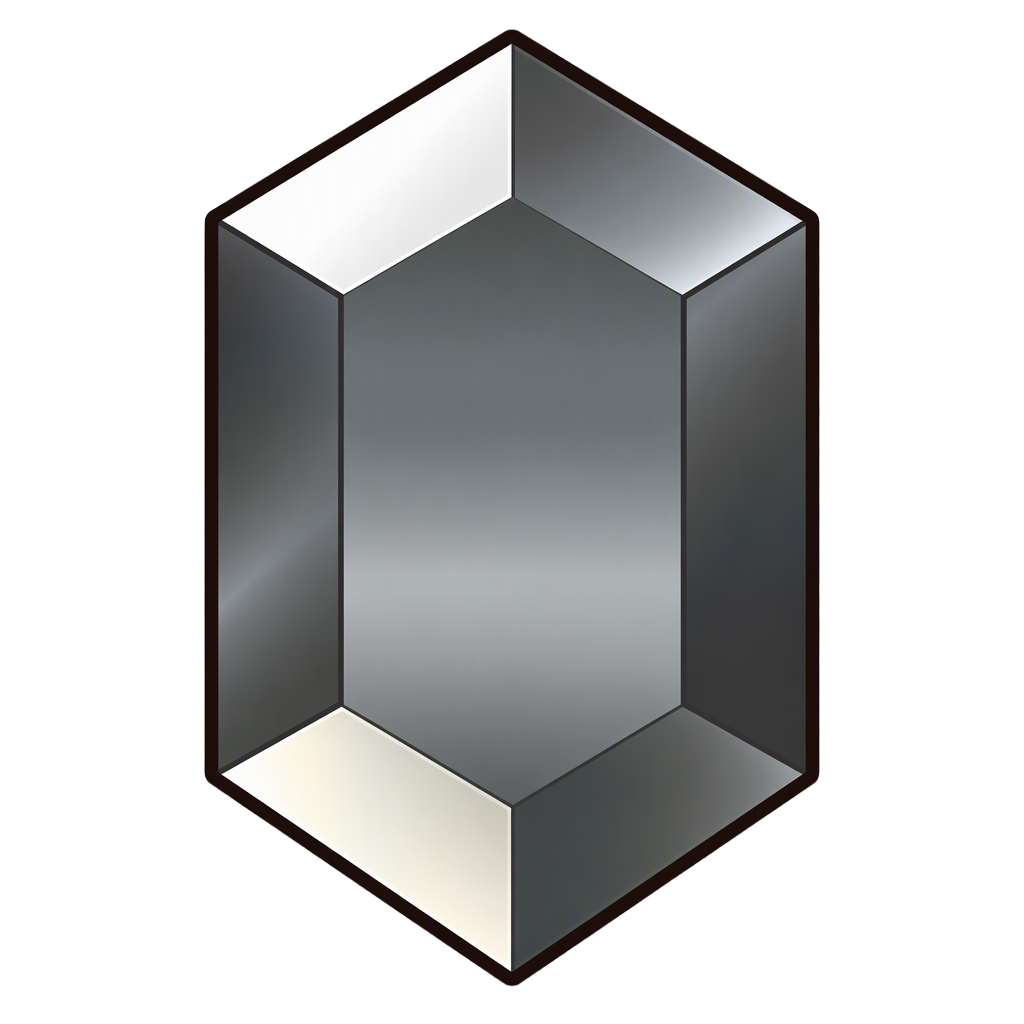
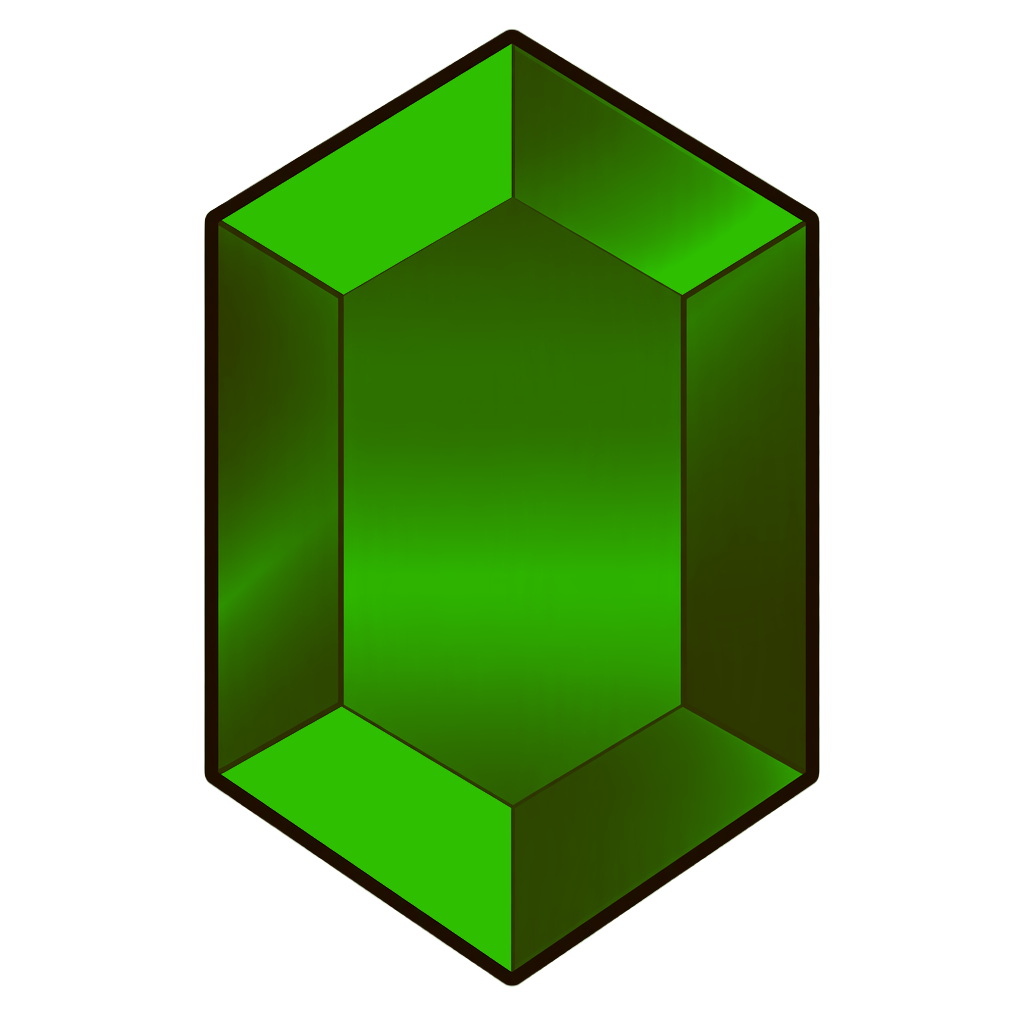
Icônes de Greg et de la Plume de Roc
- Plume de Roc : icône dans icons/magic/, à côté de l'Amour de Nayru (même emplacement
  d'inventaire dans SoH).
- Greg : nouvelle icône, libellé raccourci.

diff --git a/js/items.js b/js/items.js
@@ -50,7 +50,7 @@ const ITEM_GROUPS = [
       levels:s => [...(s.shuffleChildWallet === 'On' ? [0] : []), 1, 2, 3, ...(s.includeTycoonWallet === 'On' ? [4] : []), ...(s.infiniteUpgrades !== 'Off' ? [5] : [])] },
     { key:'skulltulaTokens', label:"Skulltulas d'Or", kind:'count', max:100, icon:'rewards/skulltula.png' },
     // Greg (rubis vert) : ne compte que s'il sert au pont arc-en-ciel ou à la clé de boss de Ganon.
-    { key:'greg', label:'Greg (rubis vert)', kind:'bool', icon:'rewards/greg.png', visible:s => s.rainbowBridge === 'Greg'
+    { key:'greg', label:'Greg', kind:'bool', icon:'rewards/greg.png', visible:s => s.rainbowBridge === 'Greg'
       || (['Stones','Medallions','Dungeon rewards','Dungeons'].includes(s.rainbowBridge) && s.bridgeRewardOptions !== 'Standard Rewards')
       || (['LACS-Stones','LACS-Medallions','LACS-Rewards','LACS-Dungeons'].includes(s.ganonsBossKey) && s.gcbkRewardOptions !== 'Standard Reward') },
     { key:'gerudoCard', label:'Carte Gerudo', kind:'bool', icon:'items/gerudo.png' },
@@ -121,7 +121,7 @@ const ITEM_GROUPS = [
     { key:'dinsFire', label:'Feu de Din', kind:'bool', icon:'magic/din.png' },
     { key:'faroresWind', label:'Vent de Farore', kind:'bool', icon:'magic/farore.png' },
     { key:'nayrusLove', label:'Amour de Nayru', kind:'bool', icon:'magic/nayru.png' },
-    { key:'rocsFeather', label:'Plume de Roc', kind:'bool', icon:'items/rocs_feather.png', visible:s => s.rocsFeather === 'On' },
+    { key:'rocsFeather', label:'Plume de Roc', kind:'bool', icon:'magic/rock_feather.png', visible:s => s.rocsFeather === 'On' },
   ]},
   { title:'Ocarina', path:'items', items:[
     { key:'ocarina', label:'Ocarina', kind:'level', stages:['Aucune',"Ocarina de Fée","Ocarina du Temps"],

diff --git a/SPEC.md b/SPEC.md
@@ -200,7 +200,7 @@ dans l'ordre :
    Titans, avec les Flèches de Feu/Glace/Lumière en sous-rangée reliée) + Utilitaires (en 2×2 : Monocle de
    Vérité, Haricots Magiques, Pierre de Souffrance, Canne à Pêche — `cols:2`) ; Flacons (Bouteilles, Lettre
    de Ruto) + Sorts (Feu de Din, Vent de Farore, Amour de Nayru, Plume de Roc — seulement avec l'option « Plume
-   de Roc », icône `icons/items/rocs_feather.png`). Objets à munitions, progressifs avec pastille de capacité et un
+   de Roc », icône `icons/magic/rock_feather.png`). Objets à munitions, progressifs avec pastille de capacité et un
    palier « Infini » (∞) selon l'option « Améliorations infinies » : Bâton Mojo 10 → 20 → 30, Lance-Pierre et
    Arc 30 → 40 → 50, Bombes 20 → 30 → 40, Noix Mojo 20 → 30 → 40 (capacités de l'item tracker de SoH).
    Missiles selon l'option « Sac de missiles » : « Progressif » → 20 → 30 → 50 ; « Aucun » / « Un sac » →
